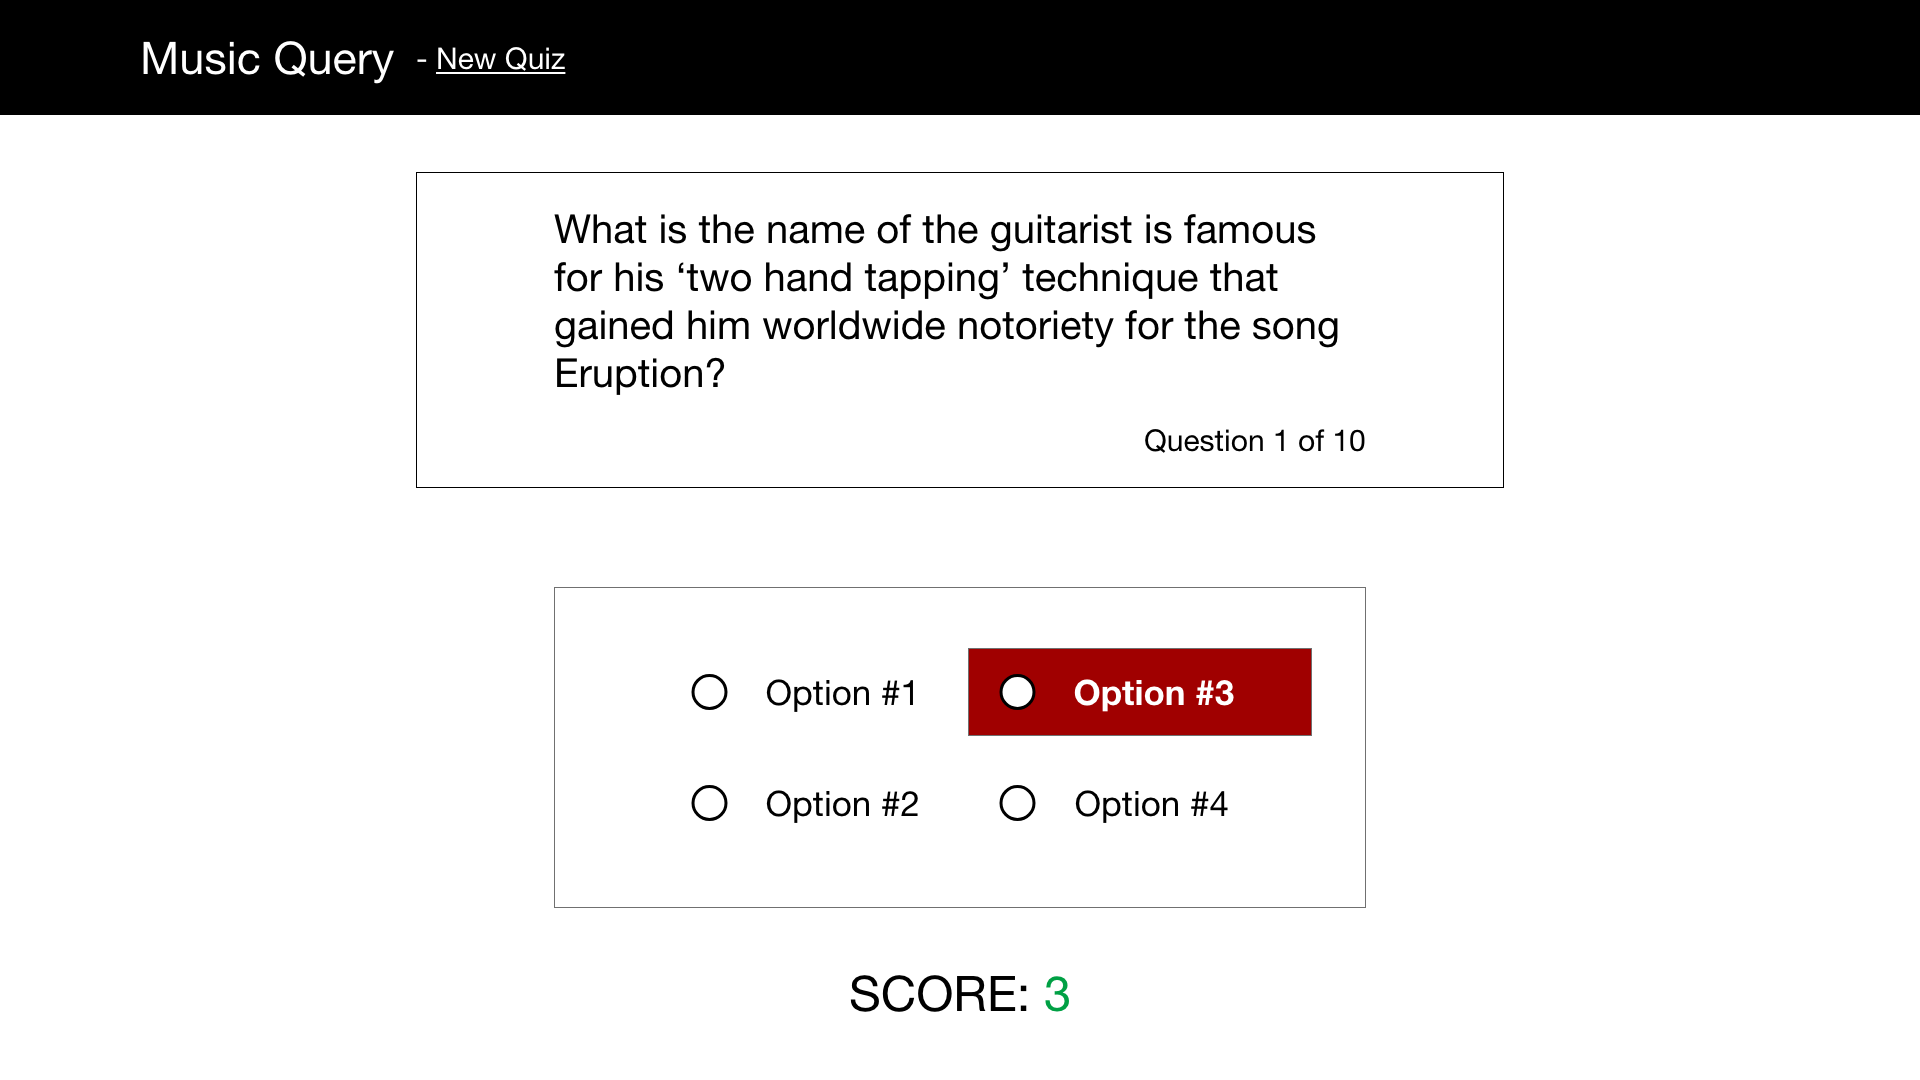
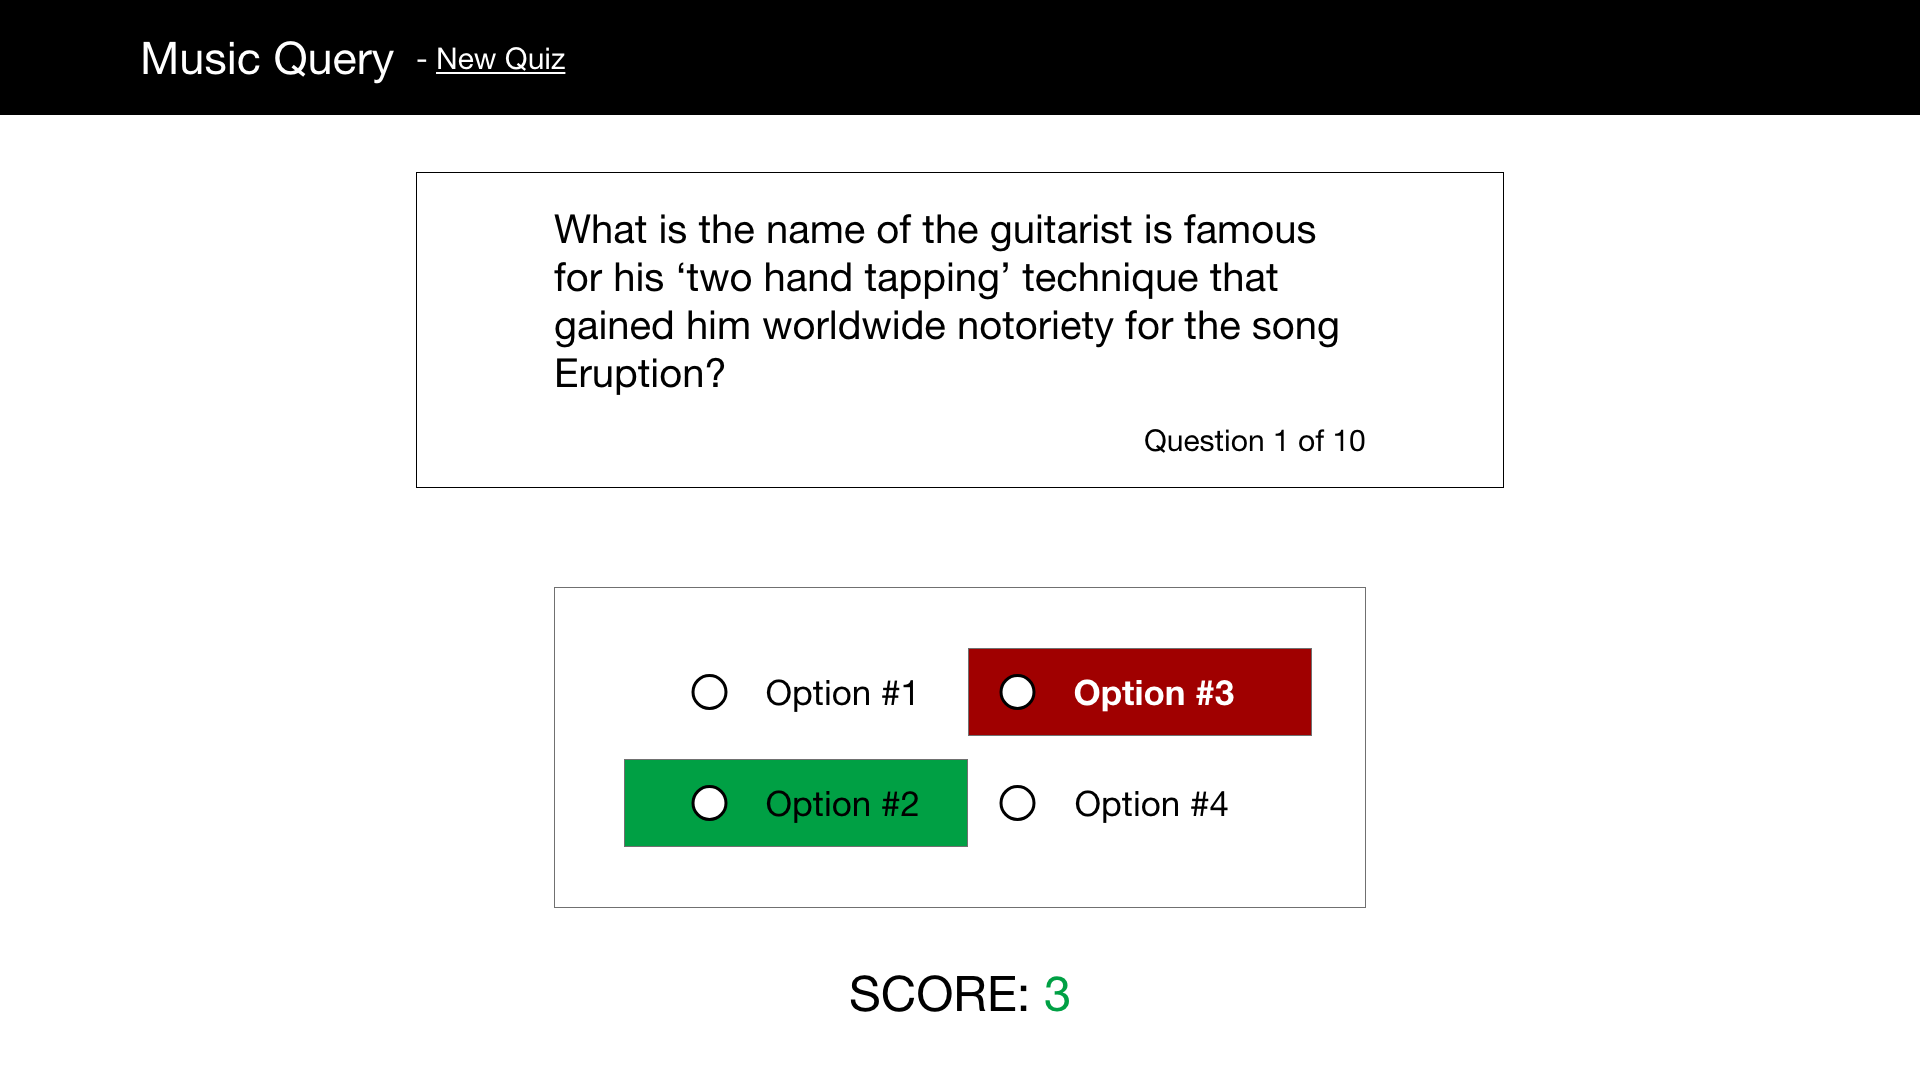
updated with four separate screens

Changed region(s): [[0.3125, 0.7028, 0.5312, 0.7944]]

diff --git a/correct.html b/correct.html
@@ -31,12 +31,10 @@
       </div>
       <div class="options">
         <form action="">
-          <input
-            type="radio"
-            name="option"
-            id="option1"
-            value="option1"
-          />Master of Puppets<br />
+          <input type="radio" name="option" id="option1" value="option1" /><span
+            class="correct"
+            >Master of Puppets</span
+          ><br />
           <input type="radio" name="option" id="option2" value="option2" />Ride
           the Lightning<br />
           <input type="radio" name="option" id="option3" value="option3" />St.
@@ -46,13 +44,14 @@
             name="option"
             id="option4"
             value="option4"
-          />...And Justice For All<br />
+          />...And Justice For All
+          <br />
         </form>
         <a href="correct.html"><button>Correct</button></a>
         <a href="incorrect.html"><button>Incorrect</button></a>
       </div>
       <div class="score">
-        <h2>Score: 0</h2>
+        <h2>Score: 1</h2>
       </div>
       <div class="finish">
         <a href="complete.html"><button>Complete Quiz</button></a>

diff --git a/incorrect.html b/incorrect.html
@@ -31,22 +31,16 @@
       </div>
       <div class="options">
         <form action="">
-          <input
-            type="radio"
-            name="option"
-            id="option1"
-            value="option1"
-          />Master of Puppets<br />
+          <input type="radio" name="option" id="option1" value="option1" />
+          Master of Puppets<br />
           <input type="radio" name="option" id="option2" value="option2" />Ride
           the Lightning<br />
           <input type="radio" name="option" id="option3" value="option3" />St.
           Anger<br />
-          <input
-            type="radio"
-            name="option"
-            id="option4"
-            value="option4"
-          />...And Justice For All<br />
+          <input type="radio" name="option" id="option4" value="option4" /><span
+            class="incorrect"
+            >...And Justice For All</span
+          ><br />
         </form>
         <a href="correct.html"><button>Correct</button></a>
         <a href="incorrect.html"><button>Incorrect</button></a>

diff --git a/complete.html b/complete.html
@@ -1,0 +1,35 @@
+<!DOCTYPE html>
+<html lang="en">
+  <head>
+    <meta charset="UTF-8" />
+    <meta name="viewport" content="width=device-width, initial-scale=1.0" />
+    <meta
+      name="description"
+      content="Music Query - A quiz app to test your knowledge of rock and metal artists!"
+    />
+    <meta http-equiv="X-UA-Compatible" content="ie=edge" />
+    <link
+      href="https://fonts.googleapis.com/css?family=Roboto&display=swap"
+      rel="stylesheet"
+    />
+    <link rel="stylesheet" href="main.css" />
+    <title>Music Query</title>
+  </head>
+  <body>
+    <header>
+      <h1>Music Query - <a href="/new-quiz.html">New Quiz</a></h1>
+    </header>
+    <main>
+      <div class="question">
+        <p>
+          Great job!<br /><br />
+          You got <span style="color: green;">6</span> out of 10 questions
+          correct!
+        </p>
+      </div>
+      <div class="new-quiz">
+        <a href="new-quiz.html"><button>Retry Quiz</button></a>
+      </div>
+    </main>
+  </body>
+</html>

diff --git a/main.css b/main.css
@@ -54,9 +54,35 @@ header {
   border: 2px solid black;
 }
 
+.correct {
+  background-color: green;
+  color: white;
+}
+
+.incorrect {
+  background-color: red;
+  color: white;
+}
+
 .q-num {
   font-size: 15px;
   width: 30%;
   margin: 0 auto;
   text-align: center;
+}
+
+.score {
+  text-align: center;
+}
+
+.finish {
+  text-align: center;
+}
+
+.finish button {
+  text-align: center;
+  padding: 20px;
+  background-color: black;
+  color: white;
+  font-size: 20px;
 }
